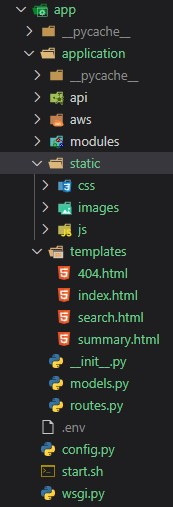
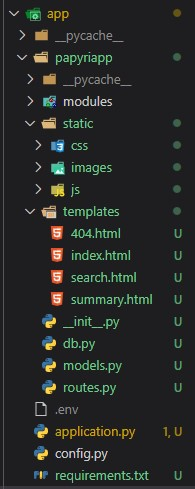
first test deployment ✔

diff --git a/app/papyriapp/templates/search.html b/app/papyriapp/templates/search.html
@@ -18,8 +18,8 @@
     <link href='https://cdnjs.cloudflare.com/ajax/libs/font-awesome/4.5.0/css/font-awesome.min.css' rel='stylesheet'>
     <link href='https://cdn.jsdelivr.net/gh/albpower/fawesome-5.6.3@1.0/css/all.css' rel='stylesheet'>
     <link href='https://cdnjs.cloudflare.com/ajax/libs/twitter-bootstrap/4.1.3/css/bootstrap.min.css' rel='stylesheet'>
-    <!-- <link rel="stylesheet" href="{{ url_for('static', filename='css/search.css') }}" type="text/css"> -->
-    <link rel="stylesheet" href="../static/css/search.css" type="text/css">
+    <link rel="stylesheet" href="{{ url_for('static', filename='css/search.css') }}" type="text/css">
+    <!-- <link rel="stylesheet" href="../static/css/search.css" type="text/css"> -->
 
 
 </head>
@@ -110,8 +110,8 @@
     </div>
 
     <script src="https://ajax.googleapis.com/ajax/libs/jquery/3.4.1/jquery.min.js"></script>
-    <!-- <script src=" {{ url_for('static', filename='js/search.js') }}"></script> -->
-    <script src="../static/js/search.js"></script>
+    <script src=" {{ url_for('static', filename='js/search.js') }}"></script>
+    <!-- <script src="../static/js/search.js"></script> -->
 
 
 

diff --git a/app/papyriapp/templates/index.html b/app/papyriapp/templates/index.html
@@ -13,8 +13,8 @@
     <meta name="description" content="">
     <meta name="viewport" content="width=device-width, initial-scale=1">
     <link href="https://fonts.googleapis.com/icon?family=Material+Icons" rel="stylesheet">
-    <!-- <link rel="stylesheet" href="{{ url_for('static', filename='css/index.css') }}" type="text/css"> -->
-    <link rel="stylesheet" href="../static/css/index.css" type="text/css">
+    <link rel="stylesheet" href="{{ url_for('static', filename='css/index.css') }}" type="text/css">
+    <!-- <link rel="stylesheet" href="../static/css/index.css" type="text/css"> -->
 
 </head>
 
@@ -40,8 +40,8 @@
 
 
     <script src="https://ajax.googleapis.com/ajax/libs/jquery/3.4.1/jquery.min.js"></script>
-    <!-- <script src=" {{ url_for('static', filename='js/index.js') }}"></script> -->
-    <script src="../static/js/index.js"></script>
+    <script src=" {{ url_for('static', filename='js/index.js') }}"></script>
+    <!-- <script src="../static/js/index.js"></script> -->
 
 </body>
 

diff --git a/app/papyriapp/templates/summary.html b/app/papyriapp/templates/summary.html
@@ -14,8 +14,8 @@
     <meta name="viewport" content="width=device-width, initial-scale=1">
     <link href="https://fonts.googleapis.com/css?family=Redressed&display=swap" rel="stylesheet">
     <link href='https://maxcdn.bootstrapcdn.com/font-awesome/4.3.0/css/font-awesome.min.css' rel='stylesheet'>
-    <!-- <link rel="stylesheet" href="{{ url_for('static', filename='css/summary.css') }}" type="text/css"> -->
-    <link rel="stylesheet" href="../static/css/summary.css" type="text/css">
+    <link rel="stylesheet" href="{{ url_for('static', filename='css/summary.css') }}" type="text/css">
+    <!-- <link rel="stylesheet" href="../static/css/summary.css" type="text/css"> -->
 
 </head>
 

diff --git a/app/papyriapp/templates/404.html b/app/papyriapp/templates/404.html
@@ -12,7 +12,9 @@
         <title></title>
         <meta name="description" content="">
         <meta name="viewport" content="width=device-width, initial-scale=1">
-        <link rel="stylesheet" href="../static/css/404.css">
+        <!-- <link rel="stylesheet" href="../static/css/404.css"> -->
+        <link rel="stylesheet" href="{{ url_for('static', filename='css/404.css') }}" type="text/css">
+
     </head>
 
     <body>
@@ -37,7 +39,7 @@
         </div>
 
 
-        <script src="" async defer></script>
+        <!-- <script src="" async defer></script> -->
     </body>
 
     </html>

diff --git a/app/papyriapp/routes.py b/app/papyriapp/routes.py
@@ -8,11 +8,13 @@ def index():
     return render_template('index.html')
 
 
+@app.route('/search')
 @app.route('/search.html')
 def search():
     return render_template('search.html')
 
 
+@app.route('/summary')
 @app.route('/summary.html')
 def summary():
     return render_template('summary.html')
